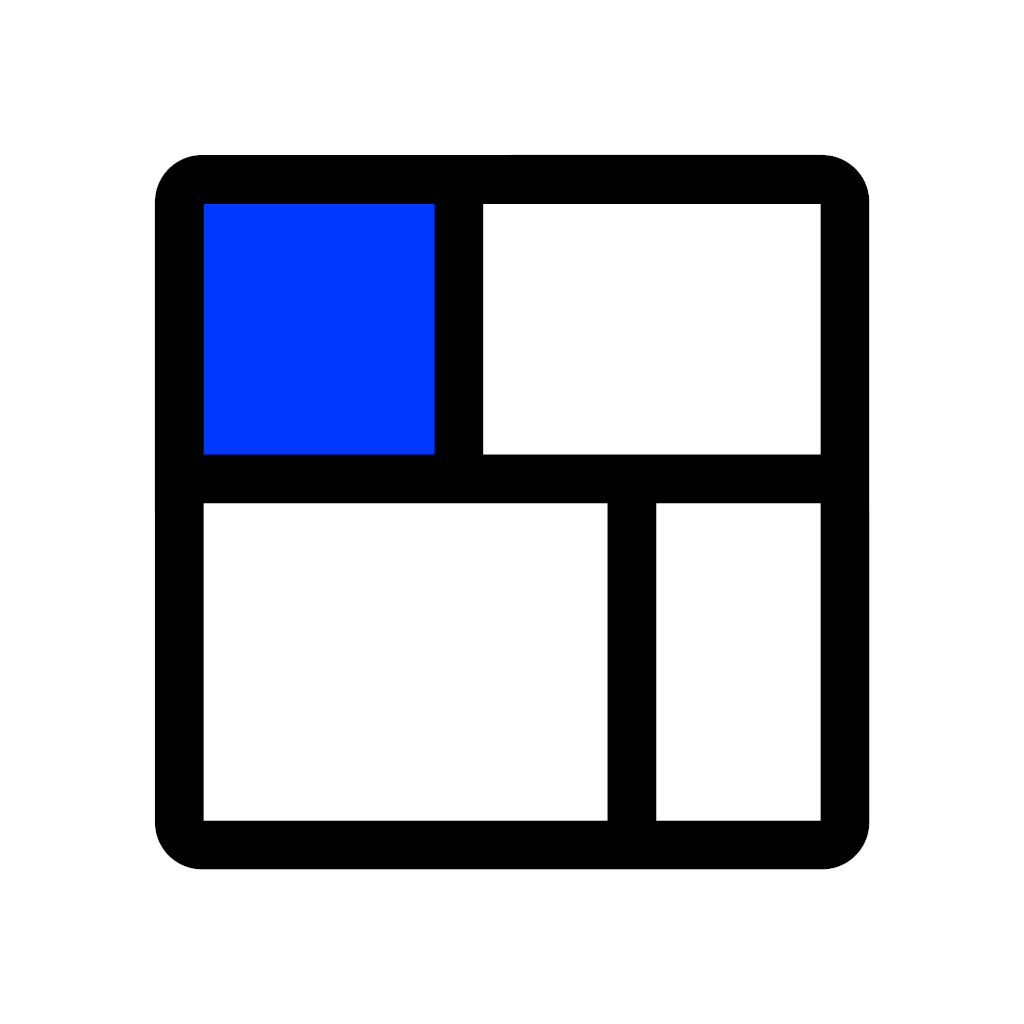
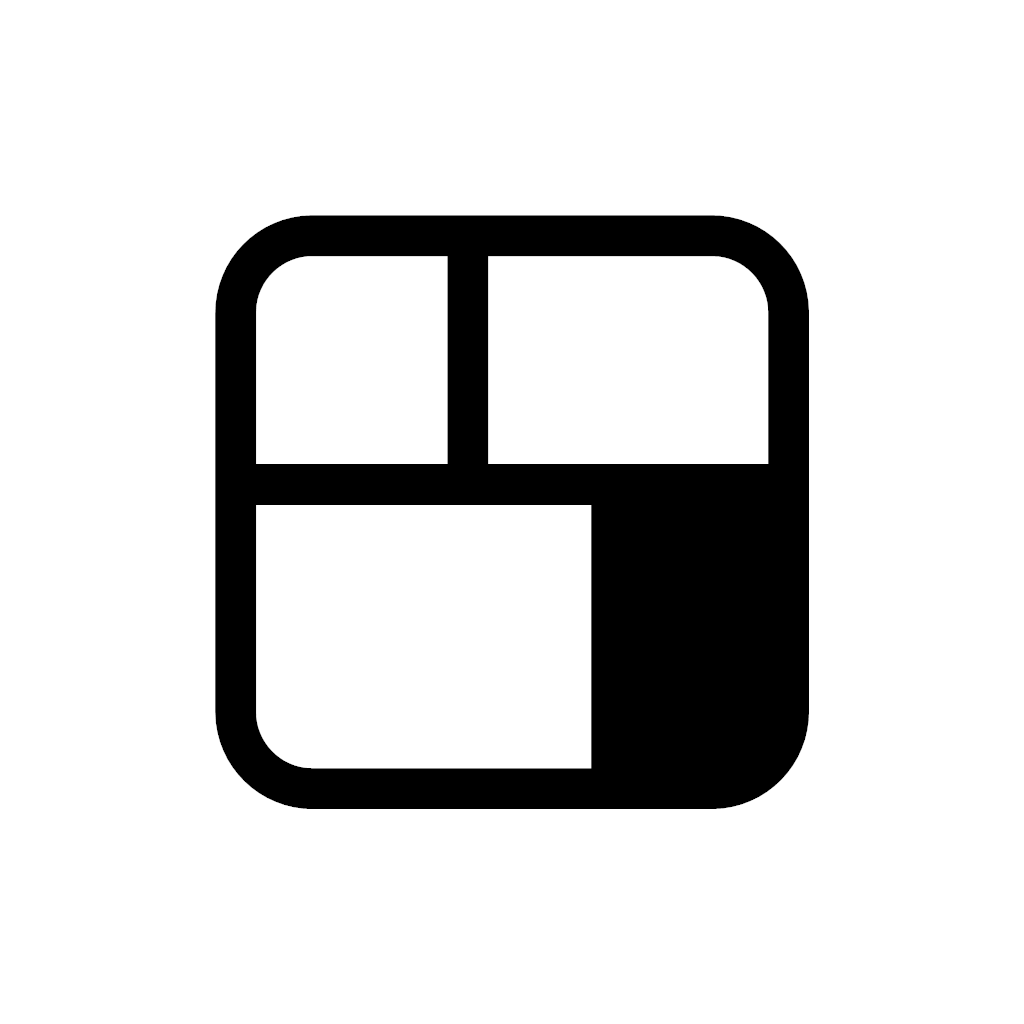
아이콘 다시 그리기 — 파랑 빼고, 더 둥글게, 더 작게
- 파랑을 빼고 검정만 쓴다
- 모서리 반경 0.022 → 0.075, 마크 크기 0.65 → 0.54, 선 굵기 0.048 → 0.040
- 채우는 칸을 왼쪽 위에서 오른쪽 아래 작은 칸으로 옮겼다.
  둥근 모서리를 두 개 물고 있는 칸을 검게 채우니 프레임과 뭉쳐
  한 덩어리로 보였다(플로피디스크처럼 읽혔다).
- 캐시 버전 v=8 → v=9

Claude-Session: https://claude.ai/code/session_01BZvQWwQEkZxQ2Eqxo7Tj1B

Changed region(s): [[0.125, 0.125, 0.875, 0.875]]

diff --git a/index.html b/index.html
@@ -14,9 +14,9 @@
 <meta name="apple-mobile-web-app-status-bar-style" content="default">
 <!-- 홈 화면 아래 이름. 길면 iOS 가 잘라 버린다. -->
 <meta name="apple-mobile-web-app-title" content="IMG Collage">
-<link rel="apple-touch-icon" href="icons/apple-touch-icon.png?v=8">
-<link rel="icon" href="icons/favicon.png?v=8" sizes="64x64" type="image/png">
-<link rel="manifest" href="manifest.webmanifest?v=8">
+<link rel="apple-touch-icon" href="icons/apple-touch-icon.png?v=9">
+<link rel="icon" href="icons/favicon.png?v=9" sizes="64x64" type="image/png">
+<link rel="manifest" href="manifest.webmanifest?v=9">
 
 <link rel="preconnect" href="https://fonts.googleapis.com">
 <link rel="preconnect" href="https://fonts.gstatic.com" crossorigin>
@@ -24,16 +24,16 @@
 <link rel="stylesheet" href="https://fonts.googleapis.com/css2?family=Gowun+Batang:wght@400;700&family=Nanum+Myeongjo:wght@400;700;800&family=Noto+Sans+KR:wght@300;400;700&family=Noto+Serif+KR:wght@300;400;700&display=swap">
 <!-- ?v= 는 캐시 무효화용. 파일을 고쳐 배포할 때마다 아래 숫자를 전부 같이 올린다.
      (모듈까지 한 번에 갱신되도록 임포트 맵으로 묶어 뒀다) -->
-<link rel="stylesheet" href="css/fonts.css?v=8">
-<link rel="stylesheet" href="css/style.css?v=8">
+<link rel="stylesheet" href="css/fonts.css?v=9">
+<link rel="stylesheet" href="css/style.css?v=9">
 <script type="importmap">
 {
   "imports": {
-    "app/state.js":    "./js/state.js?v=8",
-    "app/geometry.js": "./js/geometry.js?v=8",
-    "app/render.js":   "./js/render.js?v=8",
-    "app/files.js":    "./js/files.js?v=8",
-    "app/ui.js":       "./js/ui.js?v=8"
+    "app/state.js":    "./js/state.js?v=9",
+    "app/geometry.js": "./js/geometry.js?v=9",
+    "app/render.js":   "./js/render.js?v=9",
+    "app/files.js":    "./js/files.js?v=9",
+    "app/ui.js":       "./js/ui.js?v=9"
   }
 }
 </script>
@@ -243,6 +243,6 @@
 
 <input type="file" id="fileInput" accept="image/*" multiple hidden>
 
-<script type="module" src="js/main.js?v=8"></script>
+<script type="module" src="js/main.js?v=9"></script>
 </body>
 </html>

diff --git a/README.md b/README.md
@@ -79,7 +79,7 @@ python -m http.server 8000
 
 ## 배포할 때
 
-`index.html` 안의 `?v=8` 을 전부 같은 숫자로 올린 뒤 푸시하세요.
+`index.html` 안의 `?v=9` 을 전부 같은 숫자로 올린 뒤 푸시하세요.
 CSS와 JS 모듈이 한꺼번에 새로 받아집니다. 모듈 경로는 임포트 맵으로 묶어 두어 버전이 한 곳에만 적혀 있습니다.
 
 깜빡하면 브라우저가 옛 파일을 최대 10분(GitHub Pages 의 `max-age=600`)까지 계속 씁니다.
@@ -116,10 +116,10 @@ tools/
 아이폰 사파리에서 공유 → **홈 화면에 추가**를 누르면 주소창 없이 앱처럼 열립니다.
 안드로이드 크롬도 매니페스트를 읽어 같은 방식으로 설치됩니다.
 
-아이콘은 크기가 서로 다른 네 칸으로 나뉜 사각형이고, 왼쪽 위 한 칸만 파랗습니다.
-그 파랑(`#0038ff`)은 앱에서 칸이나 요소를 선택했을 때 나오는 표시색과 같은 값입니다.
+아이콘은 모서리가 둥근 사각형을 크기가 서로 다른 네 칸으로 나눈 모양입니다.
 균일한 격자 대신 칸 크기를 일부러 다르게 둔 건, 이 앱이 비율이 다른 사진을 여백 없이
-붙이는 도구라서입니다.
+붙이는 도구라서입니다. 오른쪽 아래 작은 칸만 검게 채웠는데, 모서리가 둥근 칸을
+채우면 프레임과 뭉쳐서 한 덩어리로 보이기 때문입니다.
 
 아이콘을 고치려면 `icons/icon.svg` 를 손보고 `tools/make-icons.ps1` 안의 같은 상수를
 맞춘 뒤 스크립트를 실행하세요(윈도우 PowerShell, 별도 설치 없이 `System.Drawing` 사용).
